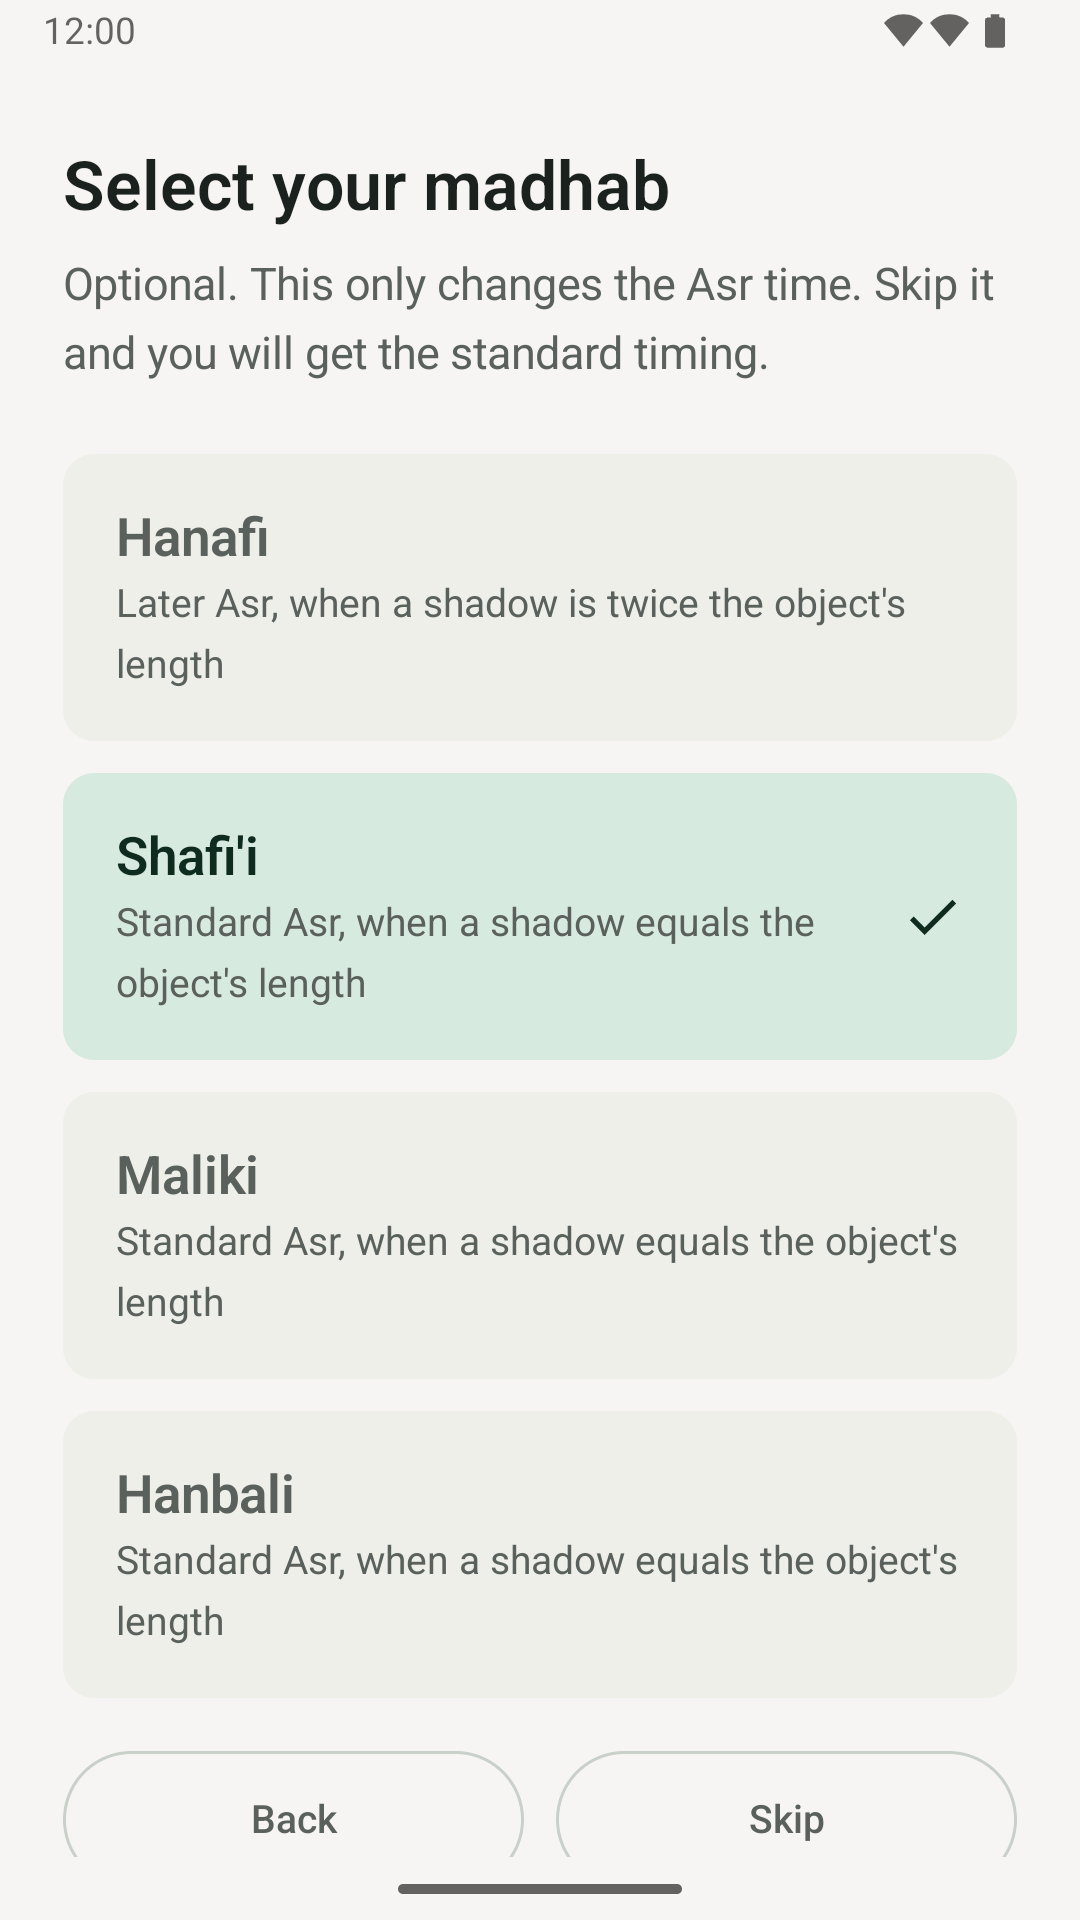
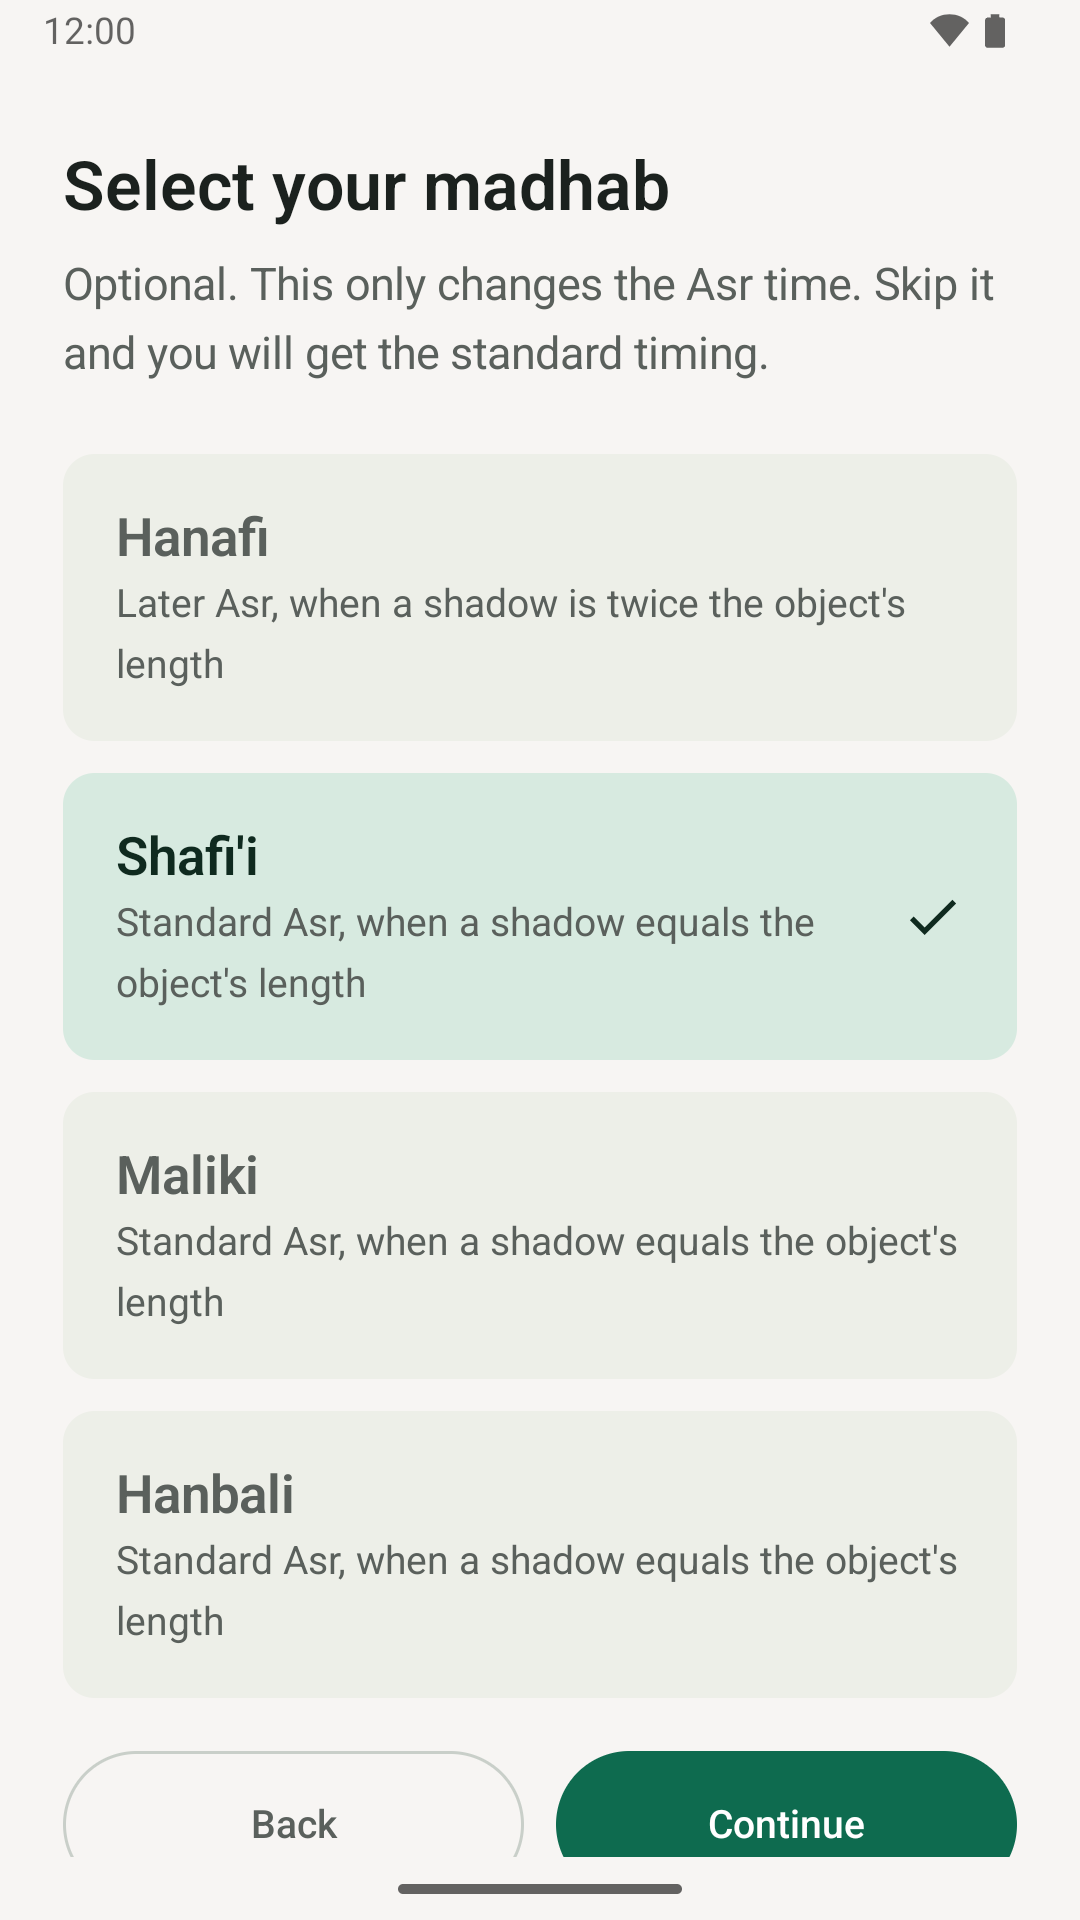
Retake the store screenshots, which were advertising a design we deleted
CLAUDE.md says a visual change is not finished until docs/store/screenshots/
is retaken, and two commits of compass work had gone by without it. That was
my omission, and opening the files showed worse than staleness.

The Qibla capture was two design revisions behind. It still showed the needle
resting on the Kaaba — the exact "they look attached" complaint that started
the redesign — plus the north wedge that has since been deleted, no cardinal
letters, no gold on the Kaaba, and the old subtitle order that led with the
number nobody can use. Anyone who found the app on Play was being shown the
thing the owner asked to have fixed.

The others were stale in quieter ways: Times predated the "Different from your
mosque?" line, Settings read "Greater Manchester" from before §5.18 made the
label a town, and the madhab step's primary button still said Skip rather than
Continue.

All seven retaken on the AVDs the recipe names, then build-store-assets.sh
re-run so docs/store/upload/ matches. Sizes re-checked rather than assumed:
five 1080x1920, two 454x454, icon 512 square, feature 1024x500.

Three steps the recipe did not have, found by needing them and now written
into docs/store/upload/README.md so the next retake does not rediscover them:

- Grant allow_dnd, or Settings leads with an amber Do Not Disturb banner. Same
  reasoning the README already gave for the exact-alarm grant — the banner is
  honest and belongs in the app, it is just not the subject of the picture.
[…]

Changed region(s): [[0.4889, 0.9062, 0.9472, 0.9688], [0.2444, 0.9375, 0.3056, 0.9688], [0.825, 0.0, 0.8556, 0.0312]]

diff --git a/docs/HANDOVER.md b/docs/HANDOVER.md
@@ -1544,6 +1544,36 @@ times for three arrivals. Both directions hold.
 - *"Automatic" resolves by school, not by country.* In Türkiye it offered Muslim World
   League, not Diyanet. That is §5.1 working as written, and the onboarding text says so.
 
+### The store screenshots, retaken because they were advertising a design that no longer exists (16 Aug 2026)
+
+`CLAUDE.md` says a visual change is not finished until `docs/store/screenshots/` is retaken,
+and two commits of compass work had gone by without it. Opening the old files showed worse
+than staleness — the Qibla capture was **two design revisions behind**, still showing the
+needle resting on the Kaaba (the exact "they look attached" complaint that started the
+redesign), the north wedge that has since been deleted, no cardinal letters, no gold on the
+Kaaba, and the old subtitle order. Times predated the mosque-difference line; Settings read
+"Greater Manchester", from before §5.18 made the label a town; the madhab step's primary
+button still said *Skip*.
+
+All seven retaken on the AVDs the recipe names (`sajdastore` 1080×1920 for the phone,
+`sajdawear_large` 454×454 for the watch), then `tools/build-store-assets.sh` re-run. Sizes
+re-checked afterwards: five at 1080×1920, two at 454×454, icon 512², feature 1024×500.
+
+Three things the recipe did not say, now added to `docs/store/upload/README.md`:
+
+- **Grant `allow_dnd`**, or Settings leads with an amber "Allow sound during Do Not Disturb"
+  banner. Exactly the same reasoning the README already gave for the exact-alarm grant: the
+  banner is honest and belongs in the app, it is simply not the subject of the screenshot.
+- **Set the AVD's timezone to match the location.** It inherits the host's, so a Manchester
+  fix rendered in +03 shows every prayer two hours out — wrong, and plausible enough that
+  nobody would catch it in a store listing.
+- **Set the clock to mid-afternoon.** Captured at whatever time the session happens to run,
+  the hero card shows a 1 am Isha; at 15:00 it shows a live countdown with a Now/Next pair,
+  which is what the screen looks like in use.
+
+The compass capture doubles as a free end-to-end test, as the README says it should:
+Qibla 118°, heading driven to 60°, and the app printed **"Turn right 58°"**. 118 − 60 = 58.
+
 **Still not verified, and not fudged:** nobody has felt the buzz — the vibrator log is not a
 fingertip. Phone-to-watch sync is still untested and could not be attempted here: this
 handset has only Samsung's preinstalled `watchmanagerstub`, so pairing a Wear emulator to it
@@ -4249,7 +4279,7 @@ exist yet. Start here, then read the detail in the sections that follow.
 | | What | When |
 |---|---|---|
 | P1 | **Upload `versionCode` 3 to the closed track.** Built, signed, waiting. It carries the Dhuhr fix, which silently loses one prayer alert a day in the live build | Now. Owner action in the Play Console |
-| P2 | **Retake `docs/store/screenshots/`** — in the order build → capture → upload, as part of P1, not before it. **Now also owed by 15 Aug's change:** the Times screen gained the *"Different from your mosque?"* line under the timetable, and the first-run flow gained a Calculation method step, so the Times capture is stale by one line | With P1 |
+| P2 | ~~**Retake `docs/store/screenshots/`**~~ — **the capturing is DONE, 16 Aug 2026.** All seven raw captures retaken and `tools/build-store-assets.sh` re-run, so `docs/store/upload/` is current and correct-sized. They were badly stale: the Qibla shot still showed the pre-15 Aug dial (needle *on* the Kaaba, the deleted north wedge, no cardinal letters, no gold, old subtitle order), Times predated the mosque-difference line, Settings said "Greater Manchester" from before the town rule, and the madhab step's button still read *Skip* rather than *Continue*. **What remains is purely the upload**, which is a Play Console action and therefore the owner's — see §10 for what each file now shows | Upload with P1 |
 | P3 | **Tell the testers to update.** The only action that addresses the "why has nothing changed" risk | With P1 |
 | P4 | **Apply for production** when the fourteen days complete | ~14 Aug 2026 |
 | P5 | **Wear OS release** — separate track, and only after the phone app is live | After P4 |

diff --git a/docs/store/upload/README.md b/docs/store/upload/README.md
@@ -72,6 +72,11 @@ adb emu geo fix -2.2426 53.4808          # Greater Manchester
 adb shell pm grant com.sajdatime.app android.permission.ACCESS_COARSE_LOCATION
 adb shell cmd appops set com.sajdatime.app SCHEDULE_EXACT_ALARM allow
 
+# Same reasoning as the exact-alarm grant, and missed on the first pass: without this,
+# Settings leads with an amber "Allow sound during Do Not Disturb" banner. It is honest
+# and belongs in the app; it is not what the screenshot is there to show.
+adb shell cmd notification allow_dnd com.sajdatime.app
+
 # A clean, consistent status bar. This is system chrome only — no app pixel is touched.
 adb shell settings put global sysui_demo_allowed 1
 adb shell am broadcast -a com.android.systemui.demo -e command enter
@@ -84,6 +89,21 @@ Two things that are not obvious:
 
 - **`geo fix` expires.** The app will sit on "Finding your location…" if you send it once
   and wait. Send it repeatedly until the city name resolves.
+- **Set the emulator's clock and timezone, or the times are wrong for the place.** The AVD
+  inherits the host's zone, so a Manchester fix rendered in +03 puts every prayer two hours
+  out — plausible-looking and false, which is the worst kind of store screenshot. And a
+  capture taken at whatever time you happen to be working shows a 1 am Isha, where a
+  mid-afternoon clock shows a live countdown and a Now/Next pair, which is what the screen
+  actually looks like in use. Both are one command each, on a throwaway AVD:
+
+  ```bash
+  adb root
+  adb shell setprop persist.sys.timezone Europe/London
+  adb shell settings put global auto_time 0
+  adb shell date 081515002026.00     # MMDDhhmmYYYY.ss — 15 Aug 2026, 15:00
+  ```
+
+  Re-launch the app afterwards so it picks the zone up.
 - **Grant `SCHEDULE_EXACT_ALARM` before capturing**, or the Times screen carries the amber
   "the system is withholding this" banner. The banner is honest and should stay in the app;
   it just is not what the screenshot is there to show.

diff --git a/docs/AFTER_THE_TEST.md b/docs/AFTER_THE_TEST.md
@@ -237,6 +237,27 @@ Just tell me "same" or "different" and I will take it from there.
 Play Store copy of the app was never touched — I install a separate test copy alongside it,
 exactly so your closed test is never disturbed.
 
+### I also redid the Play Store screenshots
+
+They were showing an app that no longer exists. The compass picture was **two versions out
+of date** — it still had the needle sitting on top of the Kaaba, which is the very thing you
+told me looked wrong and which I fixed. The Times picture was from before the "Different
+from your mosque?" line existed, and the Settings one said "Greater Manchester" instead of
+naming the town.
+
+All seven are retaken and ready. They live in `docs/store/upload/`, one folder per box in
+the Play Console, so there is no guessing which file goes where:
+
+| Folder | Where it goes in Play |
+|---|---|
+| `phone/` | Phone screenshots — all 5, in filename order |
+| `wear-os/` | Wear OS screenshots — both |
+| `app-icon/`, `feature-graphic/` | Unchanged, but they are there if Play asks |
+
+**Uploading them is yours**, because it happens in the Play Console under your account —
+do it in the same sitting as the app update, not before it, so the pictures never describe
+a version your testers do not have yet.
+
 Full build clean: **145 tests, no failures** (three new ones, which fail if anyone ever
 quietly collapses those two lines back into one).
 
